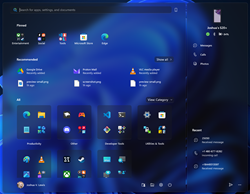
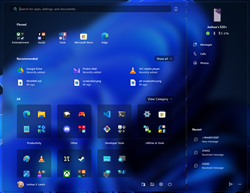
Update styleConstants and replace theme screenshots

diff --git a/Themes/LiquidGlass/README.md b/Themes/LiquidGlass/README.md
@@ -187,9 +187,9 @@ The theme styles can also be imported manually. To do that, follow these steps:
   "controlStyles[18].styles[10]": "BorderThickness@PointerOver=$ElementBorderThickness",
   "controlStyles[18].styles[11]": "BorderThickness@Pressed=$ElementBorderThickness",
   "disableNewStartMenuLayout": "forceNewLayout",
-  "styleConstants[4]": "Background=<WindhawkBlur BlurAmount=\"15\" TintColor=\"{ThemeResource SystemChromeAltHighColor}\" TintOpacity=\"0.4\" />",
-  "styleConstants[5]": "ElementBackground=<WindhawkBlur BlurAmount=\"20\" TintColor=\"{ThemeResource SystemChromeAltHighColor}\" TintOpacity=\"0.4\" />",
-  "styleConstants[6]": "ElementBackground2 = <WindhawkBlur BlurAmount=\"20\" TintColor=\"{ThemeResource SystemAltLowColor}\" TintOpacity=\"0.2\"  />",
+  "styleConstants[4]": "Background=<WindhawkBlur BlurAmount=\"15\" TintColor=\"{ThemeResource SystemAltLowColor}\" TintOpacity=\"0.2\" />",
+  "styleConstants[5]": "ElementBackground=<WindhawkBlur BlurAmount=\"15\" TintColor=\"{ThemeResource SystemAltLowColor}\" TintOpacity=\"0.4\" />",
+  "styleConstants[6]": "ElementBackground2 = <WindhawkBlur BlurAmount=\"15\" TintColor=\"{ThemeResource SystemAltLowColor}\" TintOpacity=\"0.2\"  />",
   "styleConstants[7]": "AccentBackground=<WindhawkBlur BlurAmount=\"15\" TintColor=\"{ThemeResource SystemAccentColorLight1}\" TintOpacity=\"0.2\"  />",
   "styleConstants[8]": "BorderBrush=<LinearGradientBrush StartPoint=\"0,0\" EndPoint=\"0,1\"><GradientStop Color=\"#50808080\" Offset=\"0.0\" /><GradientStop Color=\"#50404040\" Offset=\"0.25\" /><GradientStop Color=\"#50808080\" Offset=\"1\" /></LinearGradientBrush>\"",
   "styleConstants[9]": "ElementBorderBrush=<LinearGradientBrush StartPoint=\"0,0\" EndPoint=\"0,1\"><GradientStop Color=\"#50808080\" Offset=\"1\" /><GradientStop Color=\"#50606060\" Offset=\"0.15\" /></LinearGradientBrush>"
